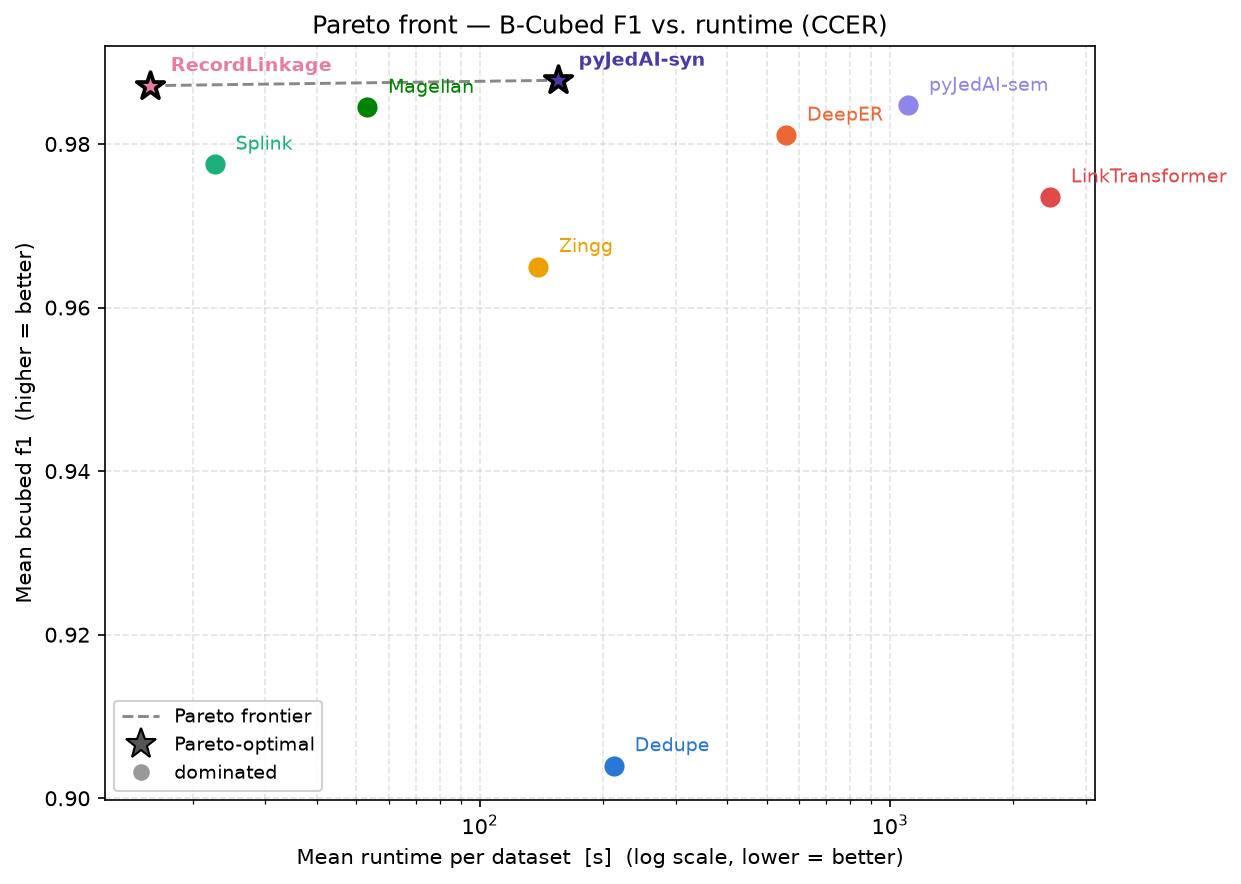
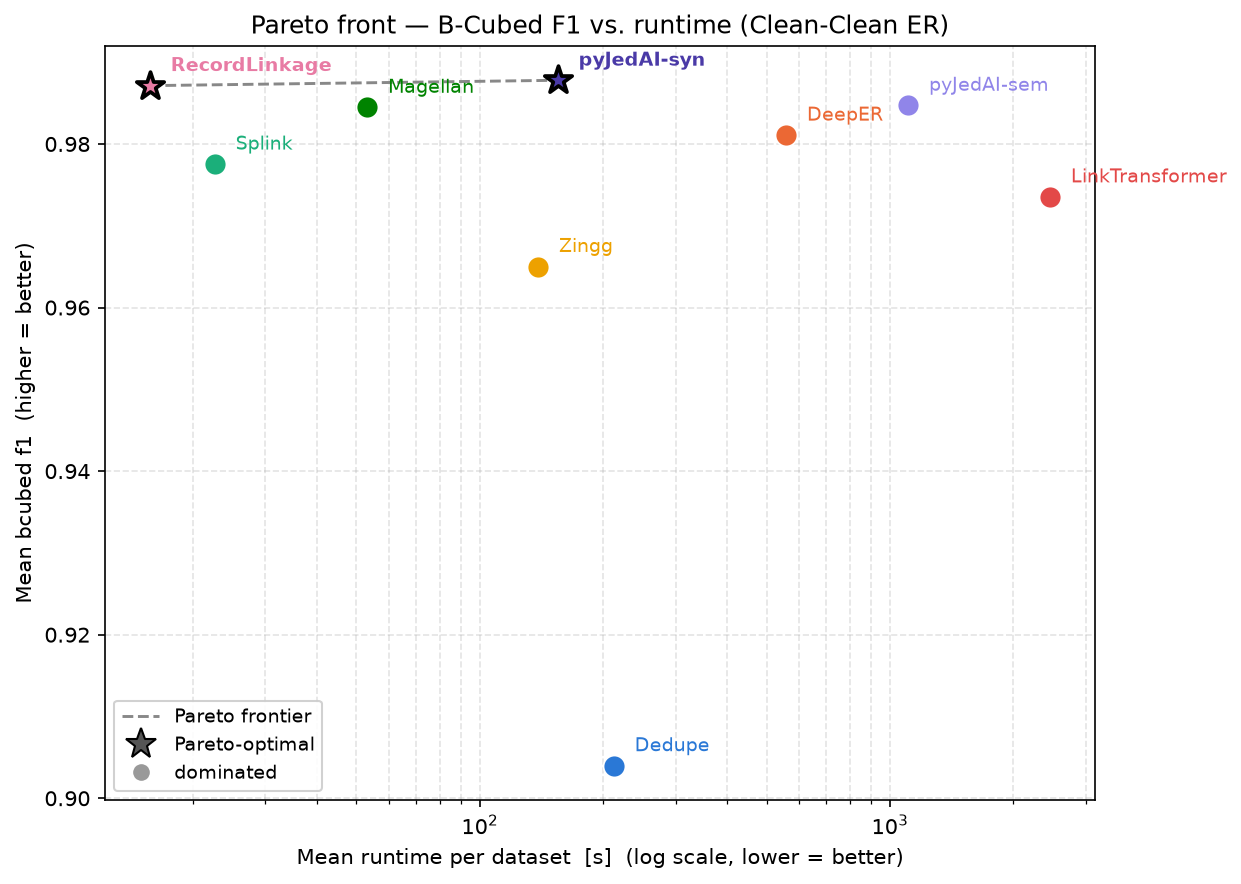
Figures: full Clean-Clean ER / Dirty ER names in heatmap and Pareto fronts

Changed region(s): [[0.2143, 0.0, 0.7655, 0.0611]]

diff --git a/ER_PLOTS_AND_DIAGRAMS/ER_PLOTS_AND_DIAGRAMS/stats_analysis.py b/ER_PLOTS_AND_DIAGRAMS/ER_PLOTS_AND_DIAGRAMS/stats_analysis.py
@@ -289,9 +289,9 @@ def plot_rank_heatmap(combined, metric, nice, out_path):
     # the DER datasets and the DER mean rank.  A mean-rank column carries the
     # Series of means in place of a dataset id.
     cols = ([(disp(d), d, ccer_ranks, len(ccer_fw)) for d in CCER_DATASETS] +
-            [("Avg rank\n(CCER)", avg, None, len(ccer_fw))] +
+            [("Avg rank\n(Clean-\nClean ER)", avg, None, len(ccer_fw))] +
             [(d, d, der_ranks, len(der_fw)) for d in DER_DATASETS] +
-            [("Avg rank\n(DER)", der_avg, None, len(der_fw))])
+            [("Avg rank\n(Dirty ER)", der_avg, None, len(der_fw))])
     avg_col = len(CCER_DATASETS)
     der_avg_col = len(cols) - 1
     avg_cols = (avg_col, der_avg_col)
@@ -316,28 +316,31 @@ def plot_rank_heatmap(combined, metric, nice, out_path):
 
     cmap = plt.get_cmap("Blues_r").copy()            # single hue, dark = best
     cmap.set_bad("#ececec")
-    fig, ax = plt.subplots(figsize=(1.02 * n_c + 2.6, 0.56 * n_r + 2.4))
+    # The paper prints this figure at single-column width, so the canvas is
+    # kept compact and the fonts large to stay legible once scaled down.
+    cell_fs, label_fs = 19, 15
+    fig, ax = plt.subplots(figsize=(0.97 * n_c + 1.6, 0.5 * n_r + 1.2))
     ax.imshow(np.ma.masked_invalid(shade), cmap=cmap, vmin=-0.05, vmax=1.25,
               aspect="auto")
 
     for i in range(n_r):
         for j in range(n_c):
             if np.isnan(ranks[i, j]):
-                ax.text(j, i, "—", ha="center", va="center", fontsize=15,
+                ax.text(j, i, "—", ha="center", va="center", fontsize=cell_fs,
                         color="#999999")
                 continue
             v = ranks[i, j]
             txt = f"{v:.2f}" if j in avg_cols else (
                 f"{v:.0f}" if float(v).is_integer() else f"{v:.1f}")
             ax.text(j, i, txt, ha="center", va="center",
-                    fontsize=15,
+                    fontsize=cell_fs,
                     fontweight="bold" if j in avg_cols else "normal",
                     color="white" if shade[i, j] < 0.45 else "#222222")
 
     ax.set_xticks(range(n_c))
-    ax.set_xticklabels(col_labels, fontsize=10.5)
+    ax.set_xticklabels(col_labels, fontsize=label_fs)
     ax.set_yticks(range(n_r))
-    ax.set_yticklabels(rows, fontsize=11)
+    ax.set_yticklabels(rows, fontsize=label_fs + 1)
     ax.tick_params(length=0)
     for spine in ax.spines.values():
         spine.set_visible(False)
@@ -348,13 +351,13 @@ def plot_rank_heatmap(combined, metric, nice, out_path):
     ax.tick_params(which="minor", length=0)
     for x in (avg_col - 0.5, avg_col + 0.5, der_avg_col - 0.5):
         ax.axvline(x, color="#555555", linewidth=1.8)
-    ax.text((len(CCER_DATASETS) - 1) / 2, -0.85, "CCER (clean-clean)",
-            ha="center", va="center", fontsize=11, fontweight="bold")
-    ax.text(avg_col + 1 + len(DER_DATASETS) / 2, -0.85, "DER (dirty)",
-            ha="center", va="center", fontsize=11, fontweight="bold")
+    ax.text((len(CCER_DATASETS) - 1) / 2, -0.95, "Clean-Clean ER",
+            ha="center", va="center", fontsize=label_fs + 1, fontweight="bold")
+    ax.text(avg_col + 1 + len(DER_DATASETS) / 2, -0.95, "Dirty ER",
+            ha="center", va="center", fontsize=label_fs + 1, fontweight="bold")
     # No title or footnote: the paper's caption explains the figure.
     fig.tight_layout()
-    fig.savefig(out_path, dpi=150, bbox_inches="tight")
+    fig.savefig(out_path, dpi=200, bbox_inches="tight")
     plt.close(fig)
     return ccer_ranks, der_ranks, avg, der_avg
 
@@ -467,6 +470,9 @@ def plot_scalability(combined, datasets, out_path):
 
 METRICS = [("pairwise_f1", "Pairwise F1"), ("bcubed_f1", "B-Cubed F1")]
 
+# How each dataset family is named inside the figures.
+FAMILY_NAME = {"CCER": "Clean-Clean ER", "DER": "Dirty ER"}
+
 
 def pareto_section(combined, datasets, frameworks, family, log, excluded=()):
     """Pareto front (quality vs runtime) for one dataset family."""
@@ -483,7 +489,8 @@ def pareto_section(combined, datasets, frameworks, family, log, excluded=()):
         log(f"Pareto-optimal ({family}, {nice} vs runtime): "
             f"{', '.join(sorted(front))}")
         plot_pareto(agg, metric,
-                    f"Pareto front — {nice} vs. runtime ({family})",
+                    f"Pareto front — {nice} vs. runtime "
+                    f"({FAMILY_NAME[family]})",
                     os.path.join(STATS_DIR, f"pareto_{family}_{metric}.png"),
                     note=exclusion_note(list(excluded)))
     agg.round(4).to_csv(os.path.join(STATS_DIR, f"pareto_summary_{family}.csv"))
